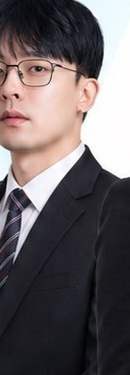
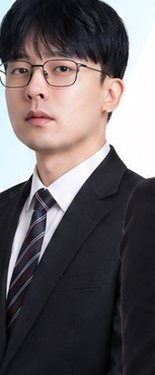
강인수 AM 사진 잘림 수정 + 사진 사이즈 확대
- kang-insu.jpg: 인물이 우측에 치우쳐 표시 시 좌측 얼굴 잘림 → 좌측 영역(x=400~)
  까지 확장해 재추출 (155x375), 인물 가운데 정렬
- 카드 사진 박스 확대: 모바일 88x112 → 110x140, 데스크톱 104x130 → 140x178
- 카드 padding/gap도 약간 증가

diff --git a/index.html b/index.html
@@ -228,12 +228,13 @@
   }
   .speaker-body { flex: 1 1 auto; min-width: 0; }
   /* 사진 — 포스터에서 개별 추출. 비율이 다르지만 object-fit:cover로 통일.
-     object-position:top center로 얼굴이 잘리지 않게 함 */
+     object-position:top center로 얼굴이 잘리지 않게 함.
+     2026-05-06 사이즈 확대: 사용자 요청으로 모바일 110/데스크톱 140 */
   .speaker-photo {
     order: 2;
-    flex: 0 0 88px;
-    width: 88px;
-    height: 112px;
+    flex: 0 0 110px;
+    width: 110px;
+    height: 140px;
     object-fit: cover;
     object-position: top center;
     border-radius: 12px;
@@ -241,8 +242,8 @@
     box-shadow: 0 2px 8px rgba(0,0,0,.08);
   }
   @media (min-width: 560px) {
-    .speaker-photo { flex-basis: 104px; width: 104px; height: 130px; }
-    .speaker { padding: 24px; gap: 20px; }
+    .speaker-photo { flex-basis: 140px; width: 140px; height: 178px; }
+    .speaker { padding: 26px; gap: 24px; }
   }
   .speaker-head {
     display: flex; align-items: baseline; gap: 8px;
@@ -732,7 +733,7 @@
       </article>
 
       <article class="speaker">
-        <img class="speaker-photo" src="kang-insu.jpg" alt="강인수 AM — Alibaba.com" width="130" height="375" loading="lazy" />
+        <img class="speaker-photo" src="kang-insu.jpg" alt="강인수 AM — Alibaba.com" width="155" height="375" loading="lazy" />
         <div class="speaker-body">
           <div class="speaker-head">
             <span class="speaker-name">강인수 AM</span>